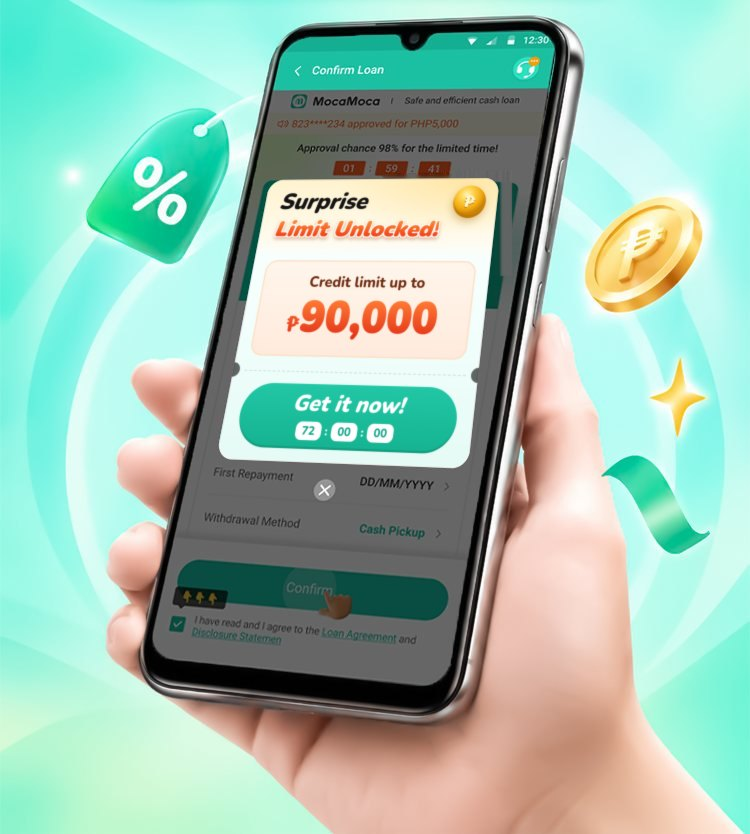
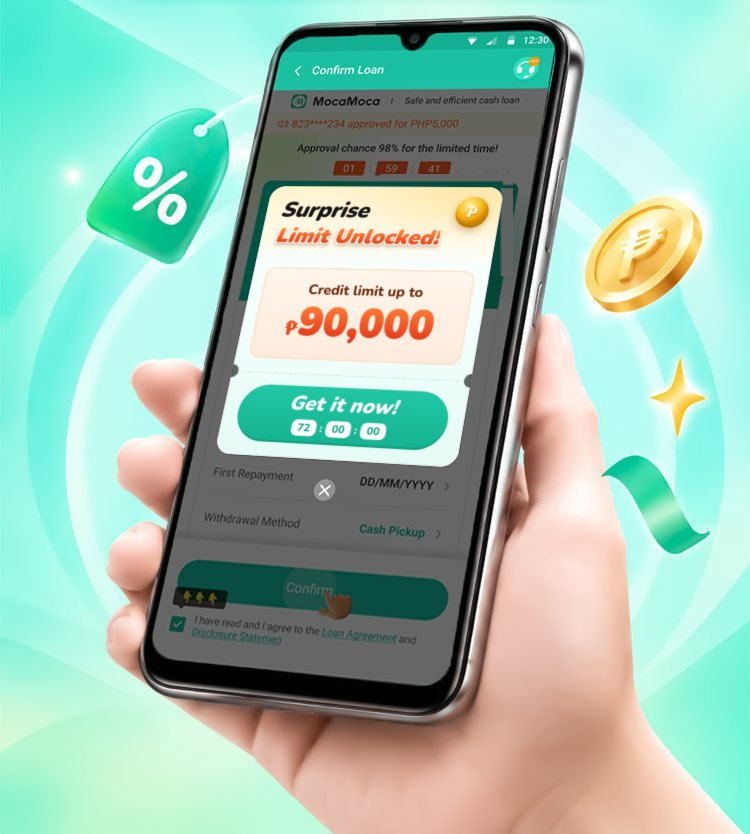
dito landing page (₱90,000): fit the redrawn phone screens to the phone's perspective
Screen lines now run parallel to the phone frames (fitted from the screen edges and
the original UI's horizontal lines); cleaned the old coupon sticker remnants.

Claude-Session: https://claude.ai/code/session_01G7wgNY2VUvWnqeckSU96GE

Changed region(s): [[0.276, 0.1871, 0.6747, 0.5612], [0.644, 0.3429, 0.6747, 0.3741]]

diff --git a/prototypes/dito-landing-page/up-to-90k.html b/prototypes/dito-landing-page/up-to-90k.html
@@ -310,7 +310,7 @@ body.lock{overflow:hidden}
   <!-- Hero -->
   <section class="hero">
     <div class="shot in" style="--d:60ms">
-      <img src="assets/hero-90k.jpg" alt="Smiling borrower holding a phone showing his MocaMoca credit limit of up to ₱90,000" width="750" height="700" fetchpriority="high">
+      <img src="assets/hero-90k.jpg?v=2" alt="Smiling borrower holding a phone showing his MocaMoca credit limit of up to ₱90,000" width="750" height="700" fetchpriority="high">
       <h1><span class="tab pop" style="--d:380ms">Credit limit</span> <span class="big pop" style="--d:500ms">Up to ₱90,000!</span></h1>
     </div>
   </section>
@@ -360,7 +360,7 @@ body.lock{overflow:hidden}
   <section class="final" aria-labelledby="h-final">
     <h2 class="reveal" id="h-final"><span>Grabe, credit limit mo</span><span class="hot"><i class="spark" aria-hidden="true">✦</i>up to ₱90,000!<i class="spark" aria-hidden="true">✦</i></span></h2>
     <div class="media reveal" style="--d:120ms">
-      <img class="float" src="assets/final-coupon-90k.jpg" alt="MocaMoca app showing a credit limit of up to ₱90,000" width="750" height="834" loading="lazy">
+      <img class="float" src="assets/final-coupon-90k.jpg?v=2" alt="MocaMoca app showing a credit limit of up to ₱90,000" width="750" height="834" loading="lazy">
       <div class="btn-dock"><button type="button" class="cta xl js-tofront">Mag-MocaMoca na! <span class="arrow" aria-hidden="true"><svg viewBox="0 0 14 14" fill="none"><path d="M5 2.5 9.5 7 5 11.5" stroke="#F04A1A" stroke-width="2.4" stroke-linecap="round" stroke-linejoin="round"/></svg></span></button></div>
     </div>
   </section>

diff --git a/index.html b/index.html
@@ -18,8 +18,8 @@
 <script src="vendor/react-dom@18.3.1/react-dom.production.min.js"></script>
 <script src="vendor/motion@14.4.0/motion-react.js"></script>
 <script src="vendor/mui-material@5.18.0/material-ui.production.min.js"></script>
-<script src="assets/playground-ui.js?v=202611170311"></script>
-<script src="animations/animations.js?v=202611170311"></script>
+<script src="assets/playground-ui.js?v=202611170318"></script>
+<script src="animations/animations.js?v=202611170318"></script>
 <script>
 /* ---- Prototype registry (the "Prototypes" tab) -----------------------------------------
    To add a prototype: put its files in prototypes/<slug>/ and add one entry below.

diff --git a/animations/player.html b/animations/player.html
@@ -23,8 +23,8 @@
 <script src="../vendor/motion@14.4.0/motion-react.js"></script>
 <script src="../vendor/mui-material@5.18.0/material-ui.production.min.js"></script>
 <script src="../vendor/lottie-web@5.12.2/lottie_svg.min.js"></script>
-<script src="../assets/playground-ui.js?v=202611170311"></script>
-<script src="animations.js?v=202611170311"></script>
+<script src="../assets/playground-ui.js?v=202611170318"></script>
+<script src="animations.js?v=202611170318"></script>
 <script>
 /* ---- Animation player ------------------------------------------------------------------
    One animation at a time. Each animation exists twice, pixel-matched: the Lottie JSON played
